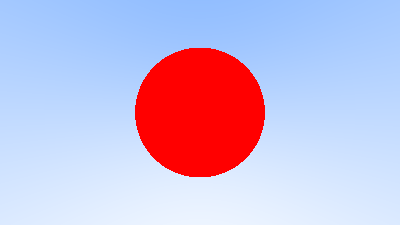
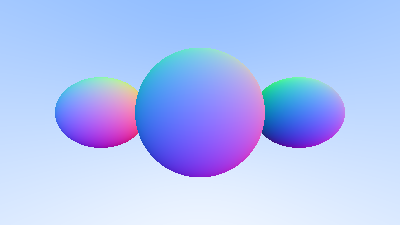
[ADD] sphere and hittable class

Changed region(s): [[0.12, 0.1867, 0.87, 0.8089]]

diff --git a/RayTracer.cpp b/RayTracer.cpp
@@ -3,6 +3,7 @@
 
 #include <iostream>
 #include <stdint.h>
+#include <vector>
 
 #define STBI_MSC_SECURE_CRT
 #define STB_IMAGE_WRITE_IMPLEMENTATION
@@ -11,6 +12,7 @@
 #include "include/color.h"
 #include "include/vec3.h"
 #include "include/ray.h"
+#include "include/sphere.h"
 
 #define N_CHANNELS 3
 
@@ -94,27 +96,22 @@ int main()
 
 }
 
-// checks if the ray hits a sphere defined by its center and radius
-bool hit_sphere(const point3& center, double radius, const ray& r)
-{
-	vec3 oc = center - r.origin();
-	auto a = dot(r.direction(), r.direction());
-	auto b = -2.0 * dot(r.direction(), oc);
-	auto c = dot(oc, oc) - radius*radius;
-	auto delta = b * b - 4 * a * c;
-
-	return (delta >= 0);
-}
-
 //function that returns the color for a given scene ray
 color ray_color(const ray& r)
 {
-	if (hit_sphere(point3(0.0, 0.0, -1), 0.5, r)){
-		return color(1, 0, 0);
+	point3 sphere_center(0.0, 0.0, -1.0);
+	sphere s(sphere_center, 0.5);
+	std::vector<sphere> s_v = { s, sphere(point3(-0.8, 0.0,-1.0), 0.3), sphere(point3(0.8, 0.0,-1.0), 0.3) };
+
+	//if t<0 we don't do anything because the sphere would be behind the camera
+	for (auto s : s_v) {
+		hit_record rec;
+		if (s.hit(r, 0.0, 100.0, rec)) {
+			return 0.5 * color(rec.normal.x() + 1, rec.normal.y() + 1, rec.normal.z() + 1);
+		}
 	}
-	else {
-		vec3 unit_direction = unit_vector(r.direction());
-		auto a = 0.5 * (unit_direction.y() + 1.0); // 0<a<1 the variation is due to the modification of the y component
-		return (1.0 - a) * color(1.0, 1.0, 1.0) + a * color(0.5, 0.7, 1.0);
-	}
+	
+	vec3 unit_direction = unit_vector(r.direction());
+	auto a = 0.5 * (unit_direction.y() + 1.0); // 0<a<1 the variation is due to the modification of the y component
+	return (1.0 - a) * color(1.0, 1.0, 1.0) + a * color(0.5, 0.7, 1.0);
 }

diff --git a/include/sphere.h b/include/sphere.h
@@ -1,0 +1,41 @@
+#pragma once
+
+#include "hittable.h"
+#include "vec3.h"
+
+class sphere : public hittable {
+public:
+	sphere(const point3& center, double radius): center(center), radius(std::fmax(0,radius)) {}
+
+	bool hit(const ray& r, double ray_tmin, double ray_tmax, hit_record& rec) const override {
+		vec3 oc = center - r.origin();
+		auto a = r.direction().length_squared();
+		auto h = dot(r.direction(), oc);
+		auto c = oc.length_squared() - radius * radius;
+
+		auto delta = h * h - a * c;
+		if (delta < 0)
+			return false;
+
+		auto sqrtd = std::sqrt(delta);
+
+		//Find the nearest root that lies in the acceptable range
+		auto root = (h - sqrtd) / a;
+		if (root <= ray_tmin || root >= ray_tmax) {
+			root = (h + sqrtd) / a;
+			if (root <= ray_tmin || root >= ray_tmax)
+				return false;
+		}
+
+		//save values in hit_record struct
+		rec.t = root;
+		rec.p = r.at(rec.t);
+		rec.normal = (rec.p - center) / radius;
+
+		return true;
+	}
+
+private:
+	point3 center;
+	double radius;
+};

diff --git a/include/hittable.h b/include/hittable.h
@@ -1,0 +1,15 @@
+#pragma once
+
+#include "ray.h"
+
+struct hit_record {
+	point3 p;		//hit point
+	vec3 normal;	//normal from the hit point
+	double t;		//value of the t parameter
+};
+
+class hittable {
+public:
+	virtual ~hittable() = default;
+	virtual bool hit(const ray& r, double ray_tmin, double ray_tmax, hit_record& rec) const = 0;
+};
